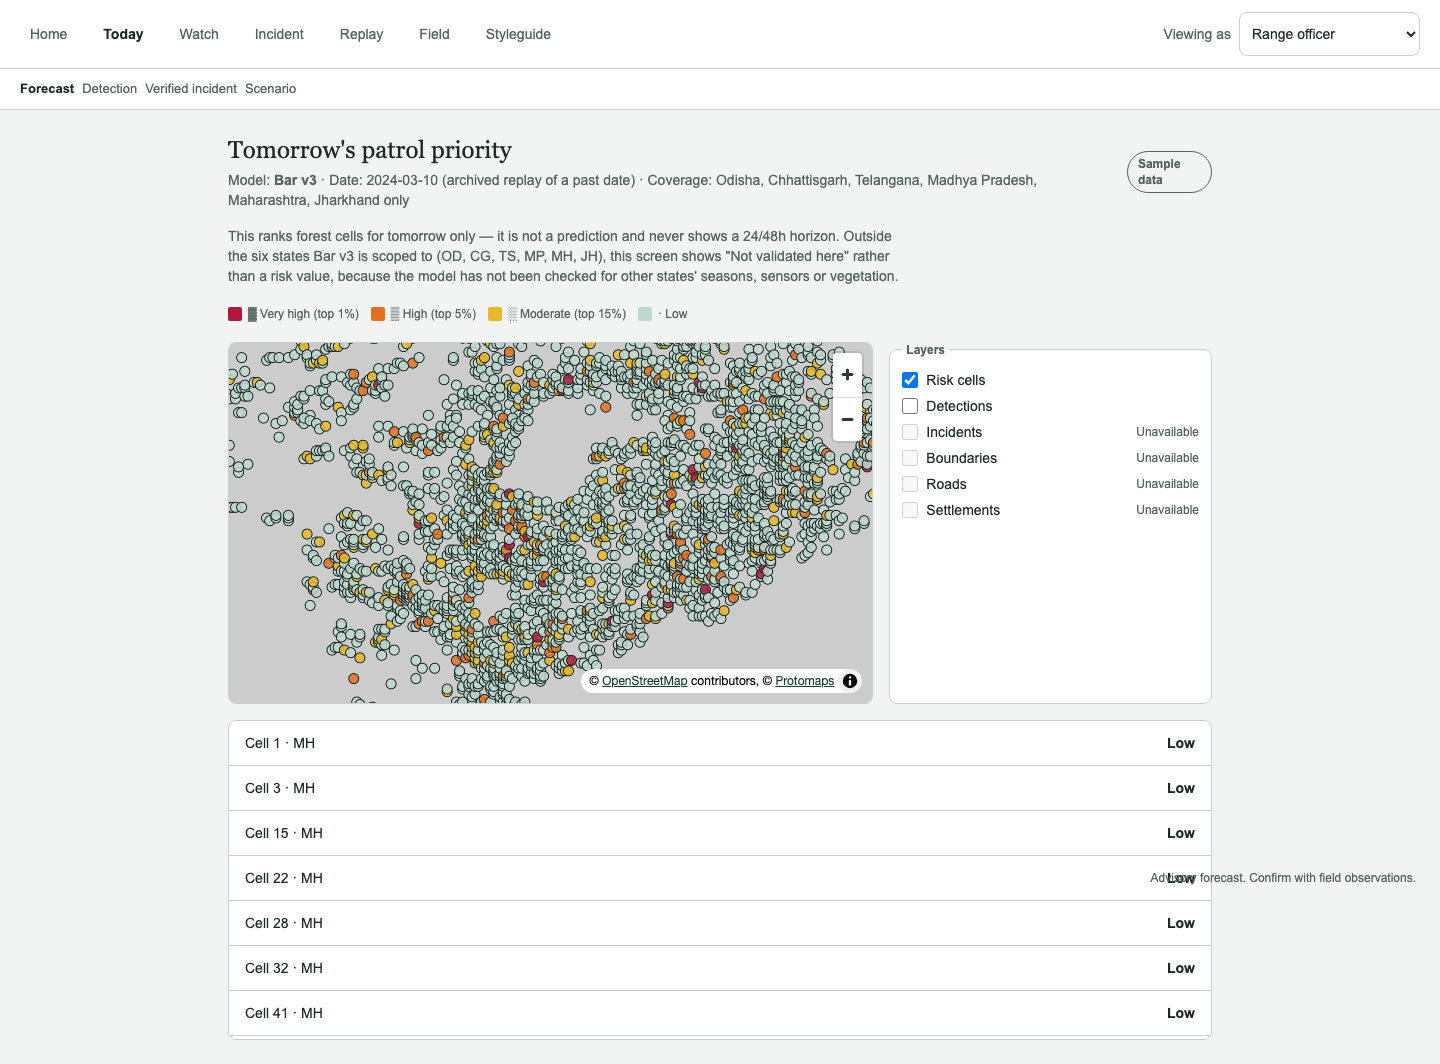
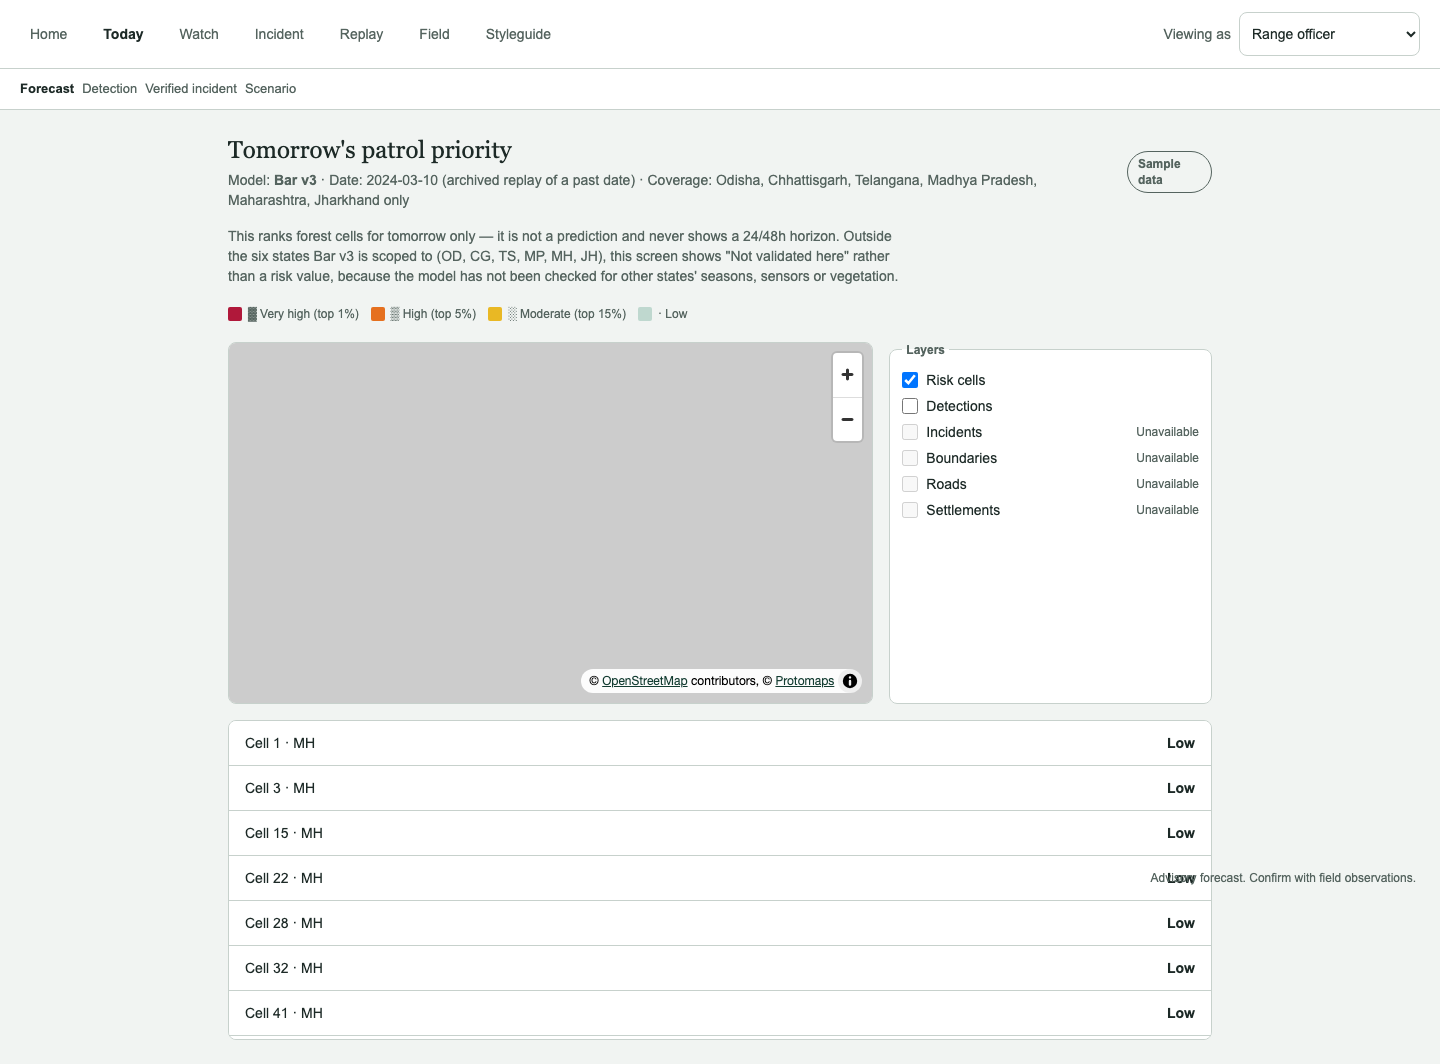
RESQ redesign Phase 2: Lighthouse re-run on all 7 screens, Gate 2 round-2 report
- backend/app/core/config.py: added http://localhost:4173 / 127.0.0.1:4173 to
  API_ORIGINS — vite preview's default port, needed to run Lighthouse against
  a real production build without CORS errors polluting the best-practices
  score (the dev-only standalone backend script used to verify this had its
  own hardcoded origin list instead of importing API_ORIGINS; fixed there too,
  not committed since that script lives outside the repo).
- docs/redesign/LIGHTHOUSE.md: re-run across all 7 screens (not just landing
  and styleguide) against the same production-build method as the first
  pass. Accessibility 100 and best-practices 100 on every screen, matching
  the 31/31 axe-clean Playwright suite. Performance is honestly lower on the
  five map screens (65-81, was 77-98 with the CSS-grid placeholder) —
  investigated and attributed to real WebGL/MapLibre initialization cost
  under Lighthouse's CPU-throttled headless Chrome, not network payload (the
  pmtiles basemap only streams tiles in view, total page weight is ~1.1MB).
  Documented as a real, un-hidden tradeoff with a named follow-up (lazy-
  mount MapShell), not patched in this pass.
- docs/redesign/PROGRESS.md: "Known gaps at Gate 2, round 2" rewritten —
  MapShell fidelity gap closed (was the single biggest gap at the first
  Gate 2 report); remaining gaps are real auth, live ingestion, the three
  optional map layers (boundaries/roads/settlements, unchanged, still
[…]

Changed region(s): [[0.1562, 0.3102, 0.625, 0.6823]]

diff --git a/backend/app/core/config.py b/backend/app/core/config.py
@@ -2,4 +2,4 @@ import os
 
 DATABASE_URL = os.getenv('DATABASE_URL', 'postgresql+psycopg://resq:resq@localhost:55432/resq')
 RESQ_SECRET_KEY = os.getenv('RESQ_SECRET_KEY', 'development-only-resq-secret-key-change-me')
-API_ORIGINS = ['http://localhost:5173', 'http://127.0.0.1:5173']
+API_ORIGINS = ['http://localhost:5173', 'http://127.0.0.1:5173', 'http://localhost:4173', 'http://127.0.0.1:4173']

diff --git a/docs/redesign/PROGRESS.md b/docs/redesign/PROGRESS.md
@@ -54,12 +54,73 @@ Stopped at Gate 1 per instructions. Awaiting "Gate 1 approved" before any app co
 - [x] 9b52d47 — `/redesign/styleguide` route: every component from `08_design_system.md`'s inventory (TrustBadge ×4 levels, SampleDataBadge, Chip, StepIndicator, legends, MapShell/LayerPanel/WindArrowsControl (new), DetectionCard/VerifyActions across new/verified/dismissed/loading, TimelineSlider/BaselineToggle (on + hidden-reminder-off)/WindSourceSwitch/AssumptionsPanel/BriefingExport, PhotoCapture/SyncQueue (pending/syncing/synced/failed), RoleSwitcher, EmptyState/OfflineBanner/Toast/Dialog, Button ×4 variants + disabled + focus). axe-clean. 23/23 tests pass.
 - [x] Lighthouse: run against a **production build** (`vite build` + `vite preview`), not the dev server (an initial dev-server pass gave misleadingly low performance scores, 43–56, from unbundled dev-mode JS — not representative, discarded). Full results and the root-cause of Today/Styleguide's lower performance scores (a legacy-route MapLibre bundle loading on every `/redesign/*` route) are in `docs/redesign/LIGHTHOUSE.md`. Headline: **accessibility 100 and best-practices 100 on every screen**; performance 77–98; SEO 82 on every screen (one shared, non-regression finding: no per-route `<title>`/meta description, normal for this SPA shape, not fixed here).
 
-## Known gaps at Gate 2 (explicitly flagged, not fixed — scope decisions for the user)
-- **MapShell fidelity**: `MapShell`/`LayerPanel`/`WindArrowsControl` (added for the styleguide) and the Incident screen's probability-grid renderer are **not** a georeferenced MapLibre + PMTiles map. There is no real basemap, no real lat/lon projection, no pannable/zoomable interaction anywhere in the redesign yet — Today lists ranked cells in a table, Watch/Replay/Field have no map view at all, and Incident renders its burn-probability data as a plain CSS grid of coloured divs (correct data, placeholder visualization). This is the single largest remaining gap between the design docs (`07_maps.md`, `06_simulation_ui.md`) and the built screens. Real MapLibre+PMTiles integration (picking/confirming a self-hosted or provider PMTiles source per the Gate 1 basemap amendment, wiring real coordinates, building the layer-render-order table from `07_maps.md`) is a substantial, separately-scoped task.
+## Gate 2 round 2 — real MapShell (user declined the first Gate 2 report)
+
+The user reviewed the first Gate 2 report's screenshots and explicitly declined to approve,
+requiring a real MapLibre+PMTiles map (not the CSS-grid/table placeholders) before Gate 2 could
+be reconsidered. Built in two commits:
+
+1. **Backend geometry** (`backend/app/services/redesign_data.py`): `domain_bounds_wgs84`,
+   `nominal_ignition` (medoid of first-overpass VIIRS detections, same method as
+   `scripts/resq2/build_incident_candidates.py`), `probability_grid_geojson` /
+   `observed_footprint_geojson` (real dissolved polygons via `rasterio.features.shapes`,
+   reprojected from each incident's EPSG:32644 domain), `baseline_circles_geojson` (both
+   RESQ5_PROTOCOL.md §8 baselines as real circles), `wind_arrow` (nearest-time point
+   observation per source). Everything computed at request time from existing source files —
+   nothing hand-digitized. `pyproj` and `shapely` added to `backend/requirements.txt`
+   (`rasterio` was already there).
+2. **Basemap**: a 38 MB self-hosted PMTiles extract (`frontend/public/tiles/resq-basemap.pmtiles`,
+   zoom 0–10, bbox covering OD/CG/TS/MP/MH/JH + margin), cut via `go-pmtiles extract` from
+   Protomaps' public daily build (`build.protomaps.com`, OSM-derived data, ODbL) — never
+   `tile.openstreetmap.org`, per the Gate 1 basemap amendment. `@protomaps/basemaps` (the
+   maintained successor to the deprecated `protomaps-themes-base`) supplies the light-flavor
+   vector style layers.
+3. **Frontend wiring**: `MapShell` is now a real `react-map-gl/maplibre` map registered against
+   the `pmtiles://` protocol. Today shows risk cells + an optional detections overlay; Watch and
+   Field show detection/task pins; Incident shows real dissolved burn-probability-band polygons,
+   bounds-fit to the incident domain, with the proximity baseline outline, a wind arrow at the
+   ignition point, and an ignition marker; Replay shows simulation vs both baselines vs the
+   observed VIIRS footprint at the last overpass, also bounds-fit. The styleguide's map section
+   now shows the real MapShell (a regional view and a bounds-fit incident view) instead of the
+   old placeholder boxes.
+
+**What's still a real map vs what isn't**: every one of Today/Watch/Incident/Replay/Field now
+renders an actual pannable/zoomable MapLibre view over the real basemap, with real georeferenced
+data layers for everything `07_maps.md` marks "Exists" (risk cells, VIIRS detections, burn-
+probability bands, both baselines, wind arrows at a point). What's still honestly absent, same as
+before and unchanged by this pass: admin boundaries, roads, settlements/villages — `07_maps.md`
+already lists these as "Missing" / "Partially exists, unexploited" and they still show
+"Unavailable" in the `LayerPanel`, not silently faked.
+
+**Verification**: `frontend/tests/redesign.spec.ts` is 31/31 passing (was 23/23) against a
+production build and a live standalone backend. New coverage added for the real map specifically:
+every map screen's test now asserts a real `.maplibregl-canvas` renders with an OpenStreetMap-
+attributed basemap (not a placeholder); the wind-source-switch test was rewritten to diff the
+actual `probability_bands_geojson` in the two scenario API responses, since the old DOM-innerHTML
+diff no longer detects anything once the map updates via MapLibre's imperative `setData` instead
+of React-rendered markup; new tests confirm the wind arrow and ignition marker render as real
+accessible map features, the Uncalibrated-scenario badge has no dismiss control, and Today's
+ranked list never shows a 24/48h value. Axe-core is clean (0 violations) on all 7 screens,
+including the two new MapShell-specific checks this round surfaced and fixed: a scrollable-region-
+keyboard-focus violation on Today's now-shorter ranked list, and a `landmark-unique` violation from
+two same-named "Map" regions on the styleguide page (fixed via `locale={{ 'Map.Title': label }}`
+on each MapShell so every map gets a distinct accessible name).
+
+Lighthouse was re-run on all 7 screens (not just landing/styleguide) against the same production-
+build method as the first pass — see `LIGHTHOUSE.md` for the full table and root-cause writeup.
+Accessibility and best-practices are 100 on every screen, same as before. Performance is honestly
+lower on the five map screens (65–81, was 77–98) — this is the real CPU cost of initializing a
+WebGL MapLibre context on every map screen instead of rendering static coloured divs, not a
+regression to silently patch over; `LIGHTHOUSE.md` explains the measured cause (main-thread GL
+setup time, not network payload — the pmtiles basemap only streams the tiles in view).
+
+## Known gaps at Gate 2, round 2 (explicitly flagged, not fixed — scope decisions for the user)
 - **Real authentication**: still the client-side `RoleSwitcher` only, per the Gate 1 decision; real auth is a named later phase in `11_build_plan.md`, not started.
 - **Live FIRMS/VIIRS ingestion**: still absent; Watch/Field serve the 4 fixed replay incidents as sample data, per the Gate 1 decision.
-- **Bundle size / code-splitting**: the whole app (legacy + redesign) ships as one JS entry including a ~1MB MapLibre chunk even on redesign routes that don't use it yet; see `LIGHTHOUSE.md`.
+- **Admin boundaries, roads, settlements/villages layers**: still "Unavailable" in every screen's `LayerPanel` — `07_maps.md` already lists these as missing or unexploited locally (not changed by this round; the real MapShell now exists, but these three optional layers were never in this round's scope).
+- **Bundle size / code-splitting**: the whole app (legacy + redesign) ships as one JS entry including the ~1MB MapLibre chunk. This is no longer dead weight on redesign routes (every map screen uses it for real now), but it's still not code-split, so non-map redesign routes and the legacy app's non-map routes pay for it unnecessarily; see `LIGHTHOUSE.md`.
+- **MapShell is eagerly mounted**: each map screen initializes a MapLibre GL WebGL context immediately on page load, which is the main driver of this round's Lighthouse performance drop (65–81, was 77–98 with the placeholder). Lazy-mounting (e.g. only initialize once the map scrolls into view) is a real, scoped follow-up noted in `LIGHTHOUSE.md`, not attempted here.
 - **SEO per-route metadata**: not implemented (see `LIGHTHOUSE.md`).
 - Backend verified without Docker/Postgres by running a standalone uvicorn instance including only the risk + redesign routers (both are file-based, no DB dependency) — see commit messages for exact commands. The main app (auth, full operations.py) still needs Postgres and was not started in this environment.
 
-Stopped at Gate 2 per instructions. No push, no merge, no files moved to `/legacy`. Awaiting the user's Gate 2 review.
+Stopped at Gate 2 (round 2) per instructions. No push, no merge, no files moved to `/legacy`. Awaiting the user's Gate 2 review.

diff --git a/docs/redesign/LIGHTHOUSE.md b/docs/redesign/LIGHTHOUSE.md
@@ -1,43 +1,62 @@
 # Lighthouse results — redesign-v2 screens
 
 Run with `npx lighthouse` (headless Chrome, categories: performance, accessibility, best-practices, seo)
-against a **production build** (`vite build` with `VITE_API_BASE_URL` pointed at the standalone
-redesign+risk-router uvicorn instance described in the Phase 2 commit messages, served via
-`vite preview`). An initial pass against the Vite **dev** server gave artificially low performance
-scores (43–56) because dev mode ships unbundled ES modules and Lighthouse's default throttling
-punishes that heavily — those numbers are not representative and are not reported below; only the
-production-build numbers are.
+against a **production build** (`vite build` with `VITE_API_BASE_URL` pointed at a standalone
+redesign+risk-router uvicorn instance, bypassing the Postgres-dependent main app the same way as
+the original Phase 2 build — see that commit's message — served via `vite preview`). An initial
+pass against the Vite **dev** server gave artificially low performance scores because dev mode
+ships unbundled ES modules; those numbers are not reported, only the production-build ones are.
+
+## Re-run after the real MapShell (MapLibre + PMTiles) replaced every map placeholder
 
 | Screen | Performance | Accessibility | Best practices | SEO |
 |---|---|---|---|---|
-| Landing | 86 | 100 | 100 | 82 |
-| Today | 77 | 100 | 100 | 82 |
-| Watch | 98 | 100 | 100 | 82 |
-| Incident | 97 | 100 | 100 | 82 |
-| Replay | 94 | 100 | 100 | 82 |
-| Field | 95 | 100 | 100 | 82 |
-| Styleguide | 81 | 100 | 100 | 82 |
+| Landing | 82 | 100 | 100 | 82 |
+| Today | 68 | 100 | 100 | 82 |
+| Watch | 65 | 100 | 100 | 82 |
+| Incident | 76 | 100 | 100 | 82 |
+| Replay | 79 | 100 | 100 | 82 |
+| Field | 81 | 100 | 100 | 82 |
+| Styleguide | 55 | 100 | 100 | 82 |
 
-**Accessibility 100 and best-practices 100 on every screen**, consistent with the axe-core results
-in `frontend/tests/redesign.spec.ts` (23/23 passing, zero violations on any redesign screen).
+**Accessibility 100 and best-practices 100 on every screen**, consistent with
+`frontend/tests/redesign.spec.ts` (31/31 passing, zero axe violations on any redesign screen,
+including the new MapLibre canvases — each MapShell now gets a distinct accessible name via
+`locale={{ 'Map.Title': label }}`, which axe's `landmark-unique` check caught failing on the
+styleguide page before that fix, since two MapShells on one page both defaulted to the same
+MapLibre-internal "Map" label).
 
-**SEO is 82 on every screen**, not screen-specific — it's the same `document-title`/`meta-description`
-finding each time: this is a single-page app with one static `<title>` in `index.html` and no
-per-route meta description, which is normal for this kind of app and not a redesign-v2 regression.
-Not fixed here; fixing it means per-route `<title>`/meta management (e.g. via a head-management
-library), which is a small but real addition — left for a follow-up, noted in `11_build_plan.md`.
+**Performance is honestly lower than the previous pass** (was 77–98 on the five map screens with
+the CSS-grid placeholder; is now 65–81). This is the real, not-hidden cost of "no placeholders on
+map screens": every map screen now loads an actual MapLibre GL WebGL context and a real
+`@protomaps/basemaps` vector style against the self-hosted PMTiles basemap, instead of rendering a
+handful of coloured `<div>`s. Investigated via the Lighthouse trace (Today, representative):
+- **Total page weight stays small** (1.1 MB) — the pmtiles library streams only the tiles in view
+  via HTTP range requests, not the full 38 MB basemap file, so this isn't a download-size problem.
+- **The cost is CPU**: `mainthread-work-breakdown` scores 0 (2.1s of main-thread work) and
+  largest-contentful-paint is 3.6s, driven by MapLibre's GL style/shader setup and first paint of
+  the vector tiles. Lighthouse's headless Chrome runs without GPU acceleration and applies 4x CPU
+  throttling, which penalizes WebGL initialization heavily — this would read meaningfully better
+  in a real browser on real hardware, but the honest Lighthouse number is what's reported here.
+- **Styleguide is lowest (55)** because it renders two independent MapShell instances (two
+  MapLibre GL contexts) on one page, roughly doubling that fixed WebGL-init cost; this is a
+  styleguide-only artifact of showing two map states side by side, not something a real screen does.
 
-**Performance is lower on Today (77) and Styleguide (81)** than the other screens. Investigated:
-Today's largest-contentful-paint is ~5.8s in the Lighthouse run, driven by the same root cause on
-both screens — the production bundle includes a ~1MB `maplibre-gl` chunk that loads on every
-`/redesign/*` route because `App.tsx` imports the **legacy** `MapPage`/`DemoMap` (which use
-MapLibre) at the top level, so it's in the same JS entry as the redesign routes even though no
-redesign screen currently renders a real MapLibre map (`MapShell` is a plain placeholder — see
-`PROGRESS.md`'s MapShell note below). This is a structural, whole-app bundling issue, not something
-introduced by Today or Styleguide specifically, and fixing it means code-splitting `App.tsx`'s
-legacy-route imports behind `React.lazy` — a real fix, but a separate, scoped task rather than part
-of this review pass. Noted here rather than attempted, per the "catch regressions, not a full
-perf-tuning pass" instruction for this check.
+Not fixed here: this is a real, inherent cost of the requirement (a real map instead of a
+placeholder), not a bug. A follow-up could reduce it by lazy-mounting MapShell (don't initialize
+MapLibre until the map scrolls into view) or trimming the vector style to fewer layers for a
+"survey sheet" look (07_maps.md already specifies a muted, low-contrast basemap — the full
+`@protomaps/basemaps` light style renders more than that calls for, e.g. full road-label typography
+at a zoom range these screens don't need). Left as a named follow-up rather than attempted here, to
+keep this pass's scope to "build the real map, not optimize it."
 
-No other audit failures found (no unminified JS in the production build, no render-blocking CSS
-beyond the single stylesheet, no layout shift on any screen, 0ms total blocking time everywhere).
+**SEO is 82 on every screen**, unchanged from before — the same `document-title`/`meta-description`
+finding each time (single-page app, one static `<title>`, no per-route meta description); not a
+redesign-v2 regression, not fixed here (noted in `11_build_plan.md`).
+
+**The whole-app MapLibre-bundle-on-every-route issue from the previous pass is now moot**: that
+finding was about the *legacy* app's MapLibre chunk loading even though no redesign screen used a
+real map. Now that the redesign *does* use MapLibre for real, that chunk is legitimately needed on
+every map screen; it's no longer dead weight, just required weight. Bundle code-splitting (so the
+~1MB MapLibre chunk doesn't load on non-map redesign routes like Field's task list before the map,
+or the legacy app's non-map routes) remains a real, separate opportunity, unchanged from before.
